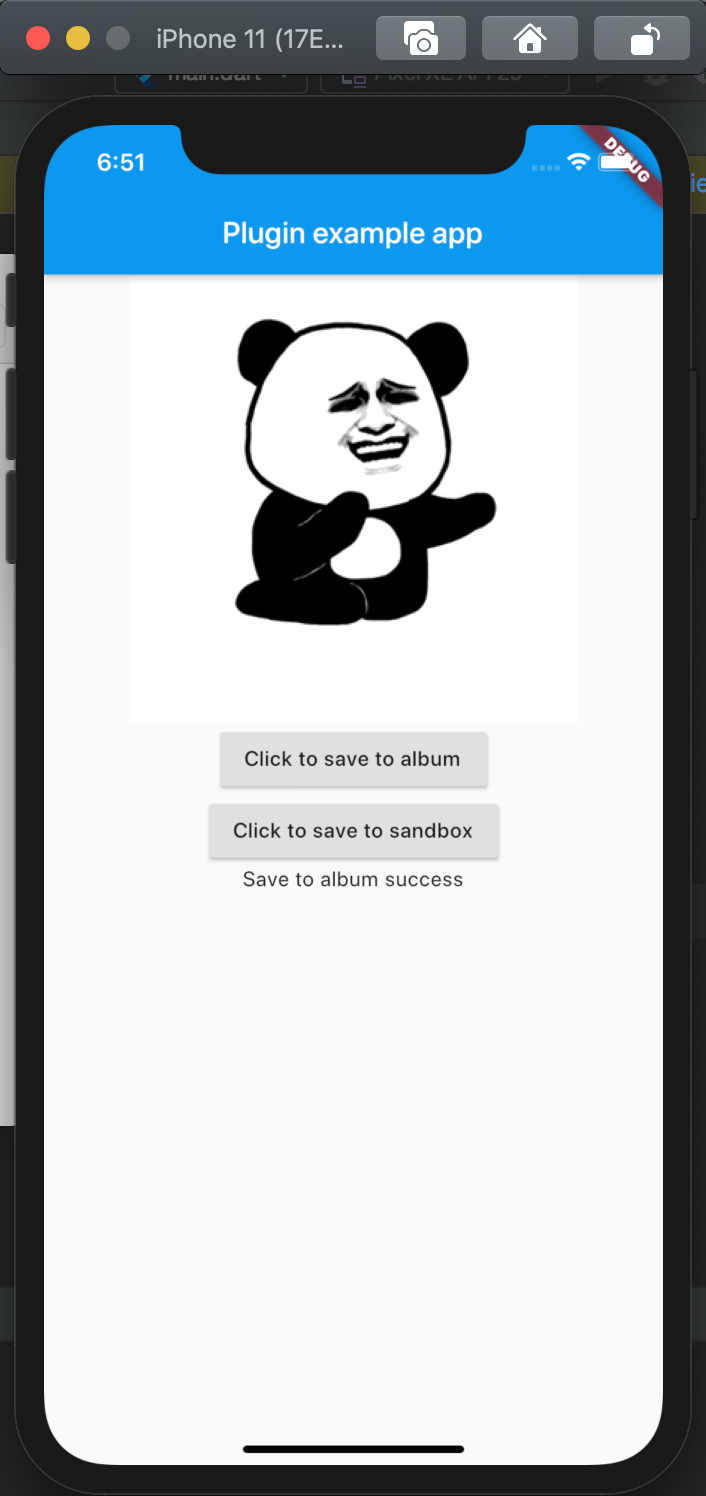
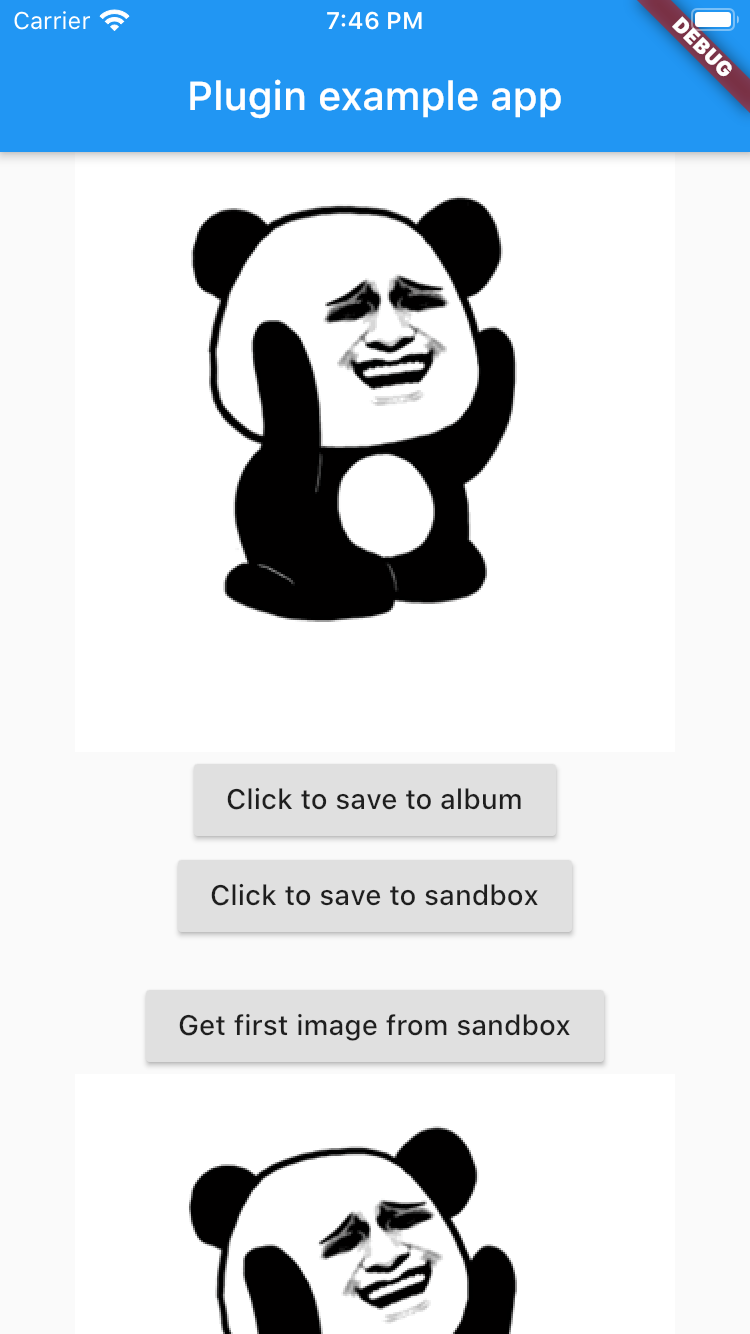
Update CHANGELOG.md and README.md.

diff --git a/lib/image_save.dart b/lib/image_save.dart
@@ -1,5 +1,4 @@
 import 'dart:async';
-import 'dart:io';
 import 'dart:typed_data';
 
 import 'package:flutter/services.dart';

diff --git a/README.md b/README.md
@@ -32,4 +32,7 @@ bool success = await ImageSave.saveImage(data, "gif", albumName: "demo");
 // Save to sandbox.
 // Notice: Image saved in this way will be deleted when the application is uninstalled.
 bool success = await ImageSave.saveImageToSandbox(data, "demo.gif");
+
+// Get images from Sandbox.
+List<Uint8List> imageDatas = await ImageSave.getImagesFromSandbox();
 ```

diff --git a/CHANGELOG.md b/CHANGELOG.md
@@ -38,3 +38,6 @@ For iOS, The path can't obtain, the image saved to a new album with name you giv
 # 3.0.0
 * Add platform support tags.
 * Upgrade flutter version.
+
+#3.1.0
+* Add `getImagesFromSandbox()` function.
